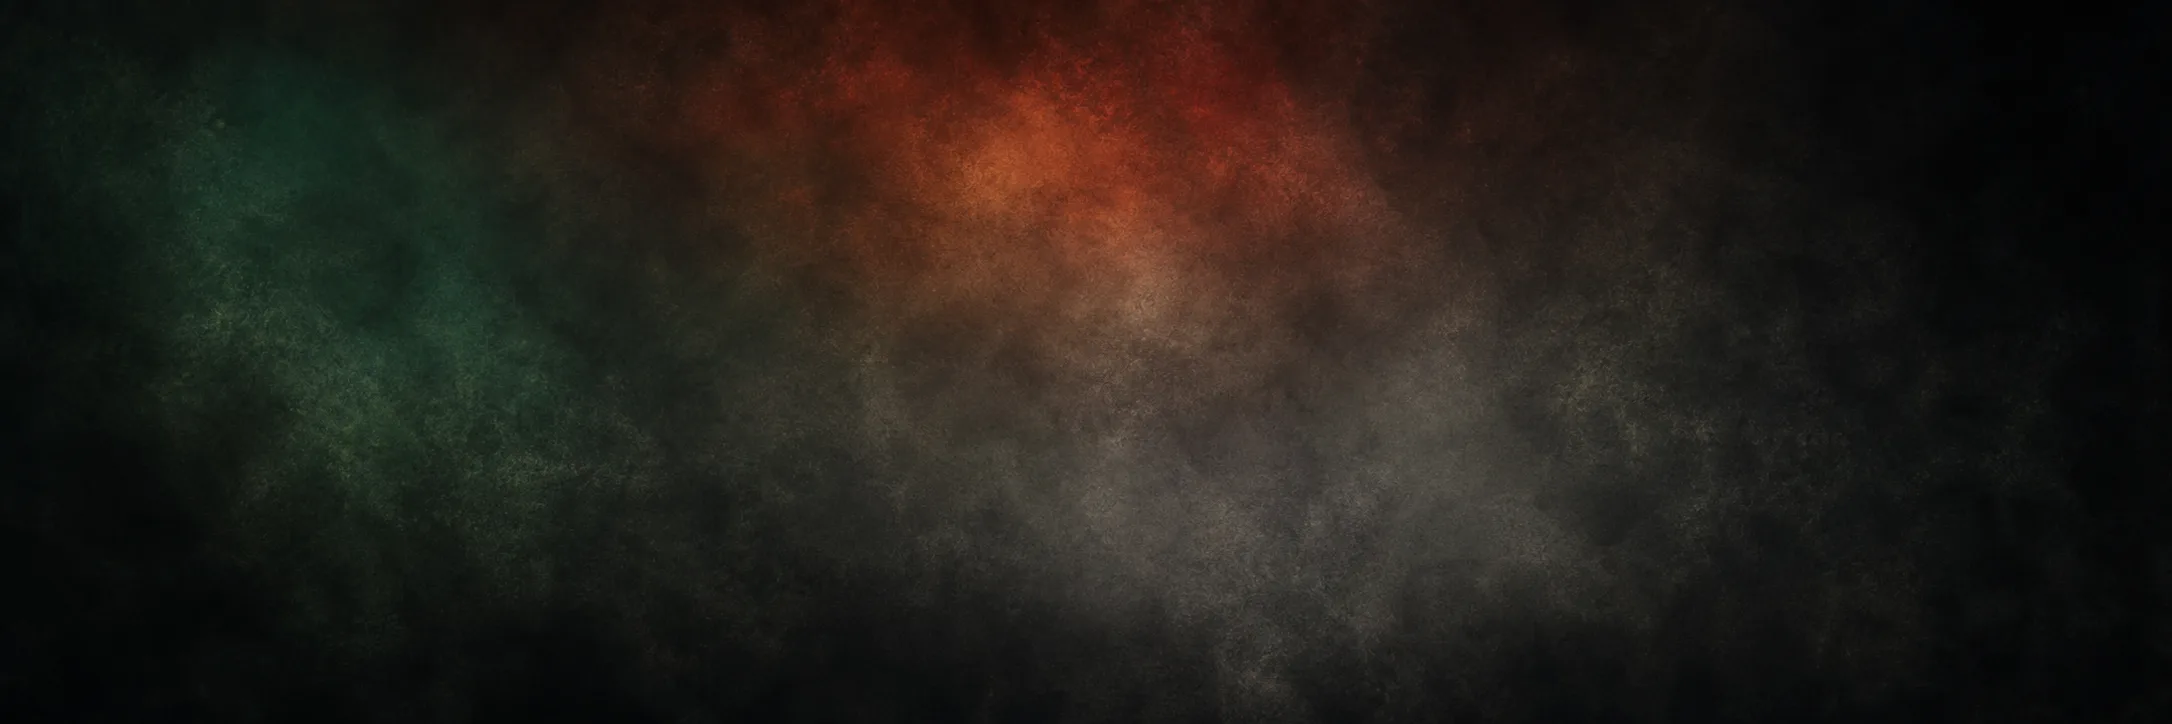
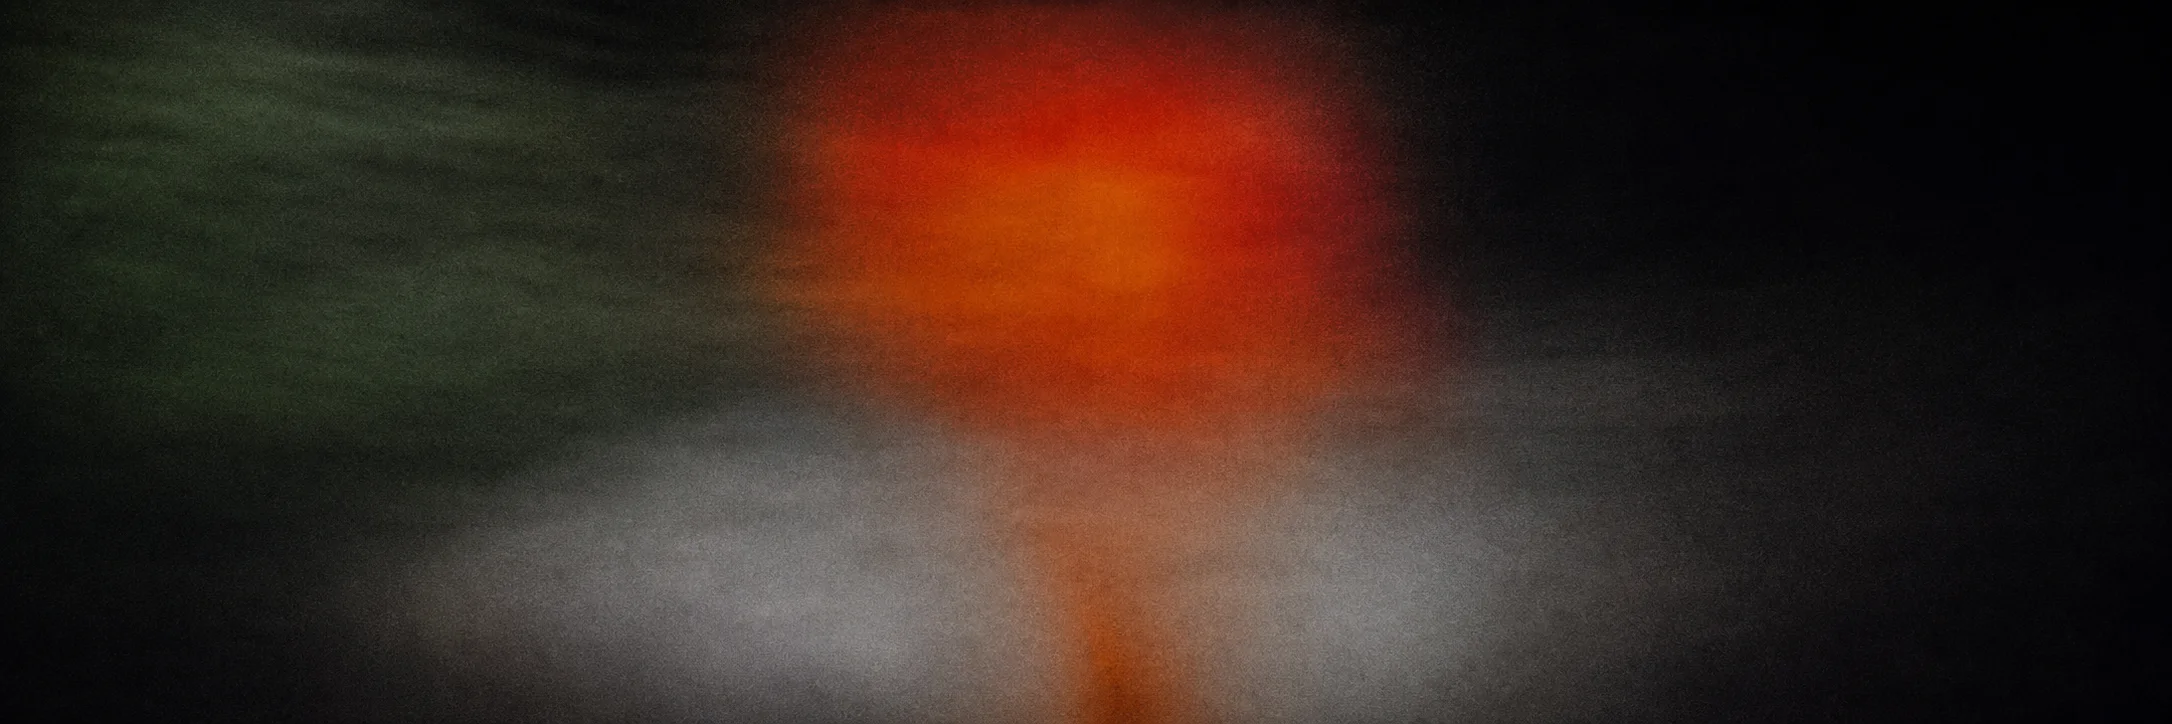
feat: implement about page journey section with cinematic styling and internationalization support

diff --git a/app/globals.css b/app/globals.css
@@ -129,9 +129,9 @@
     grid-template-columns: minmax(0, 1fr) 5rem minmax(0, 1fr);
     gap: clamp(1rem, 2vw, 2rem);
     width: min(100%, 72rem);
-    min-height: clamp(20rem, 42vh, 31rem);
+    min-height: clamp(25rem, 38vw, 34rem);
     margin: 0 auto;
-    padding-bottom: clamp(2.5rem, 5vw, 5rem);
+    padding-bottom: clamp(4rem, 7vw, 7rem);
   }
 
   .motion-ready .about-timeline-item.reveal-on-scroll {
@@ -200,14 +200,130 @@
 
   .about-timeline-card {
     position: relative;
+    display: grid;
+    grid-template-columns: minmax(8rem, 0.82fr) minmax(0, 1.18fr);
+    gap: clamp(1.1rem, 2vw, 2rem);
     grid-row: 1;
     align-self: start;
+    isolation: isolate;
     overflow: hidden;
-    padding: clamp(1.3rem, 2.3vw, 2.2rem);
+    min-height: clamp(18rem, 22vw, 22rem);
+    padding: clamp(1rem, 1.7vw, 1.7rem);
     border: 1px solid color-mix(in srgb, var(--color-foreground) 16%, transparent);
-    background: radial-gradient(circle at 100% 0%, color-mix(in srgb, var(--color-accent) 10%, transparent), transparent 42%), color-mix(in srgb, var(--color-surface) 78%, transparent);
+    background: linear-gradient(135deg, color-mix(in srgb, var(--color-surface) 88%, transparent), color-mix(in srgb, var(--color-canvas) 92%, transparent)), radial-gradient(circle at 100% 0%, color-mix(in srgb, var(--color-accent) 16%, transparent), transparent 42%);
     box-shadow: 0 1.5rem 3rem color-mix(in srgb, #000 16%, transparent);
     transition: border-color 450ms ease, background-color 450ms ease, transform 700ms var(--ease-cinematic), box-shadow 500ms ease;
+  }
+
+  .about-timeline-card-body,
+  .about-timeline-card-media {
+    position: relative;
+    z-index: 1;
+  }
+
+  .about-timeline-card-body {
+    display: flex;
+    min-width: 0;
+    flex-direction: column;
+    justify-content: space-between;
+    padding-block: 0.25rem;
+  }
+
+  .about-timeline-card-media {
+    display: flex;
+    min-height: 14rem;
+    align-items: flex-end;
+    overflow: hidden;
+    border: 1px solid color-mix(in srgb, var(--color-foreground) 18%, transparent);
+    background:
+      radial-gradient(circle at 58% 38%, color-mix(in srgb, var(--color-accent) 42%, transparent), transparent 29%),
+      linear-gradient(145deg, color-mix(in srgb, var(--color-canvas) 76%, var(--color-foreground)) 0%, color-mix(in srgb, var(--color-canvas) 98%, #000) 72%);
+  }
+
+  .about-timeline-card-media::before {
+    position: absolute;
+    inset: 0.8rem;
+    border: 1px dotted color-mix(in srgb, var(--color-foreground) 24%, transparent);
+    background-image:
+      linear-gradient(color-mix(in srgb, var(--color-foreground) 9%, transparent) 1px, transparent 1px),
+      linear-gradient(90deg, color-mix(in srgb, var(--color-foreground) 9%, transparent) 1px, transparent 1px);
+    background-size: 1.25rem 1.25rem;
+    content: "";
+    opacity: 0.58;
+  }
+
+  .about-timeline-card-media::after {
+    position: absolute;
+    right: 0.8rem;
+    bottom: 0.8rem;
+    width: 2.2rem;
+    height: 2.2rem;
+    border: 1px solid color-mix(in srgb, var(--color-accent) 70%, transparent);
+    border-radius: 999px;
+    content: "";
+    opacity: 0.9;
+  }
+
+  .about-timeline-media-code,
+  .about-timeline-media-caption {
+    position: relative;
+    z-index: 1;
+    font-family: var(--font-cine-mono), monospace;
+    font-size: 0.52rem;
+    letter-spacing: 0.1em;
+    text-transform: uppercase;
+  }
+
+  .about-timeline-media-code {
+    position: absolute;
+    top: 1.05rem;
+    left: 1rem;
+    color: color-mix(in srgb, var(--color-foreground) 68%, transparent);
+  }
+
+  .about-timeline-media-caption {
+    margin: 0 0 1rem 1rem;
+    color: var(--color-accent);
+  }
+
+  .about-timeline-media-orb {
+    position: absolute;
+    top: 50%;
+    left: 50%;
+    width: clamp(3.8rem, 7vw, 6rem);
+    height: clamp(3.8rem, 7vw, 6rem);
+    border: 1px solid color-mix(in srgb, var(--color-foreground) 58%, transparent);
+    border-radius: 999px;
+    box-shadow: 0 0 0 0.7rem color-mix(in srgb, var(--color-accent) 7%, transparent), inset 0 0 2rem color-mix(in srgb, var(--color-accent) 18%, transparent);
+    transform: translate(-50%, -50%);
+  }
+
+  .about-timeline-media-cross {
+    position: absolute;
+    z-index: 1;
+    background: color-mix(in srgb, var(--color-foreground) 42%, transparent);
+  }
+
+  .about-timeline-media-cross-x {
+    top: 50%;
+    right: 1rem;
+    left: 1rem;
+    height: 1px;
+  }
+
+  .about-timeline-media-cross-y {
+    top: 1rem;
+    bottom: 1rem;
+    left: 50%;
+    width: 1px;
+  }
+
+  .about-timeline-card-meta,
+  .about-timeline-card-footer {
+    display: flex;
+    align-items: center;
+    justify-content: space-between;
+    gap: 0.75rem;
   }
 
   .about-timeline-card::after {
@@ -224,7 +340,16 @@
 
   .about-timeline-item:nth-child(odd) .about-timeline-card {
     grid-column: 1;
+    grid-template-columns: minmax(0, 1.18fr) minmax(8rem, 0.82fr);
     text-align: right;
+  }
+
+  .about-timeline-item:nth-child(odd) .about-timeline-card-media {
+    order: 2;
+  }
+
+  .about-timeline-item:nth-child(odd) .about-timeline-card-body {
+    order: 1;
   }
 
   .about-timeline-item:nth-child(even) .about-timeline-card {
@@ -249,13 +374,20 @@
     text-transform: uppercase;
   }
 
+  .about-timeline-card-count {
+    color: color-mix(in srgb, var(--color-foreground) 42%, transparent);
+    font-family: var(--font-cine-mono), monospace;
+    font-size: 0.53rem;
+    letter-spacing: 0.08em;
+  }
+
   .about-timeline-card h3 {
     position: relative;
     z-index: 1;
-    margin-top: 0.8rem;
+    margin-top: 1.4rem;
     color: var(--color-foreground);
     font-family: var(--font-display), sans-serif;
-    font-size: clamp(1.65rem, 3vw, 3.2rem);
+    font-size: clamp(1.7rem, 3.2vw, 3.4rem);
     letter-spacing: -0.045em;
     line-height: 0.98;
   }
@@ -264,10 +396,26 @@
     position: relative;
     z-index: 1;
     max-width: 38rem;
-    margin-top: 1rem;
+    margin-top: 0.9rem;
     color: color-mix(in srgb, var(--color-foreground) 62%, transparent);
     font-size: 0.94rem;
     line-height: 1.6;
+  }
+
+  .about-timeline-card-footer {
+    margin-top: 2rem;
+    color: color-mix(in srgb, var(--color-foreground) 42%, transparent);
+    font-family: var(--font-cine-mono), monospace;
+    font-size: 0.52rem;
+    letter-spacing: 0.08em;
+    text-transform: uppercase;
+  }
+
+  .about-timeline-footer-line {
+    display: block;
+    width: 3rem;
+    height: 1px;
+    background: color-mix(in srgb, var(--color-accent) 66%, transparent);
   }
 
   .about-timeline-card::before {
@@ -293,7 +441,7 @@
     .about-timeline-item {
       grid-template-columns: 3rem minmax(0, 1fr);
       gap: 1rem;
-      min-height: 24rem;
+      min-height: 0;
       padding-bottom: 3rem;
     }
 
@@ -315,7 +463,24 @@
     .about-timeline-item:nth-child(odd) .about-timeline-card,
     .about-timeline-item:nth-child(even) .about-timeline-card {
       grid-column: 2;
+      display: grid;
+      grid-template-columns: 1fr;
+      gap: 1.15rem;
+      min-height: 0;
       text-align: left;
+    }
+
+    .about-timeline-item:nth-child(odd) .about-timeline-card-media,
+    .about-timeline-item:nth-child(odd) .about-timeline-card-body {
+      order: initial;
+    }
+
+    .about-timeline-card-media {
+      min-height: 11rem;
+    }
+
+    .about-timeline-card-footer {
+      justify-content: flex-start;
     }
 
     .about-timeline-item:nth-child(odd) .about-timeline-card::after {
@@ -360,17 +525,16 @@
     height: clamp(30rem, 48vw, 46rem);
     content: "";
     background: url("/assets/about-section-atmosphere.webp") center top / cover no-repeat;
-    filter: blur(0.35rem) saturate(0.84);
-    opacity: 0.82;
-    -webkit-mask-image: radial-gradient(ellipse 78% 72% at 50% 28%, #000 28%, rgb(0 0 0 / 0.92) 52%, transparent 100%);
-    mask-image: radial-gradient(ellipse 78% 72% at 50% 28%, #000 28%, rgb(0 0 0 / 0.92) 52%, transparent 100%);
+    opacity: 0.96;
+    -webkit-mask-image: linear-gradient(180deg, #000 0%, #000 64%, rgb(0 0 0 / 0.9) 76%, transparent 100%);
+    mask-image: linear-gradient(180deg, #000 0%, #000 64%, rgb(0 0 0 / 0.9) 76%, transparent 100%);
   }
 
   .about-section-atmosphere::after {
     position: absolute;
     inset: 0;
     content: "";
-    background: linear-gradient(180deg, transparent 0%, transparent 38%, color-mix(in srgb, var(--color-canvas) 18%, transparent) 54%, color-mix(in srgb, var(--color-canvas) 72%, transparent) 76%, var(--color-canvas) 92%);
+    background: linear-gradient(180deg, transparent 0%, transparent 52%, color-mix(in srgb, var(--color-canvas) 8%, transparent) 68%, color-mix(in srgb, var(--color-canvas) 44%, transparent) 86%, var(--color-canvas) 100%);
   }
 
   .case-tabs-scroller {

diff --git a/components/sections/AboutJourney.tsx b/components/sections/AboutJourney.tsx
@@ -4,10 +4,20 @@ import type { CSSProperties } from "react";
 
 type Principle = { title: string; description: string };
 
-export function AboutJourney({ principles }: { principles: Principle[] }) {
+export function AboutJourney({
+  principles,
+  chapterLabel,
+  mediaPlaceholder,
+}: {
+  principles: Principle[];
+  chapterLabel: string;
+  mediaPlaceholder: string;
+}) {
   return (
     <ol className="about-journey" aria-label="Cineguru üretim hikâyesi">
       {principles.map((principle, index) => {
+        const chapter = String(index + 1).padStart(2, "0");
+
         return (
           <li
             className="about-timeline-item reveal-on-scroll"
@@ -19,10 +29,26 @@ export function AboutJourney({ principles }: { principles: Principle[] }) {
                 <span>{String(index + 1).padStart(2, "0")}</span>
               </span>
             </div>
-            <article className="about-timeline-card" data-index={String(index + 1).padStart(2, "0")}>
-              <p className="about-timeline-index">Bölüm {String(index + 1).padStart(2, "0")}</p>
-              <h3>{principle.title}</h3>
-              <p className="about-timeline-description">{principle.description}</p>
+            <article className="about-timeline-card" data-index={chapter}>
+              <div className="about-timeline-card-media" aria-hidden="true">
+                <span className="about-timeline-media-code">{chapter} / {String(principles.length).padStart(2, "0")}</span>
+                <span className="about-timeline-media-cross about-timeline-media-cross-x" />
+                <span className="about-timeline-media-cross about-timeline-media-cross-y" />
+                <span className="about-timeline-media-orb" />
+                <span className="about-timeline-media-caption">{mediaPlaceholder}</span>
+              </div>
+              <div className="about-timeline-card-body">
+                <div className="about-timeline-card-meta">
+                  <p className="about-timeline-index">{chapterLabel} {chapter}</p>
+                  <span className="about-timeline-card-count">0{index + 1} — 04</span>
+                </div>
+                <h3>{principle.title}</h3>
+                <p className="about-timeline-description">{principle.description}</p>
+                <div className="about-timeline-card-footer">
+                  <span>{principle.title}</span>
+                  <span className="about-timeline-footer-line" />
+                </div>
+              </div>
             </article>
           </li>
         );

diff --git a/components/sections/AboutSection.tsx b/components/sections/AboutSection.tsx
@@ -28,7 +28,11 @@ export function AboutSection({ messages }: { messages: Messages }) {
           titleClassName="!-translate-x-50 max-[940px]:!-translate-x-24 max-[640px]:!translate-x-0"
           descriptionClassName="!mt-[25rem] max-[940px]:!mt-8 max-[640px]:!mt-6"
         />
-        <AboutJourney principles={about.principles} />
+        <AboutJourney
+          principles={about.principles}
+          chapterLabel={about.chapterLabel}
+          mediaPlaceholder={about.mediaPlaceholder}
+        />
         <div className="reveal-on-scroll -mx-page mt-[clamp(5rem,9vw,9rem)] bg-canvas px-page py-[clamp(2.5rem,5vw,5rem)] text-foreground" data-reveal="panel">
           <p className="mb-7 text-center font-mono text-[0.68rem] font-semibold uppercase tracking-[0.16em] text-accent max-[640px]:mb-5 max-[640px]:text-[0.58rem]">{about.brandsLabel}</p>
           <div className="relative overflow-hidden border border-dotted border-foreground/30 bg-[radial-gradient(circle,rgba(255,255,255,0.2)_1px,transparent_1px)] bg-[length:0.5rem_0.5rem]">
